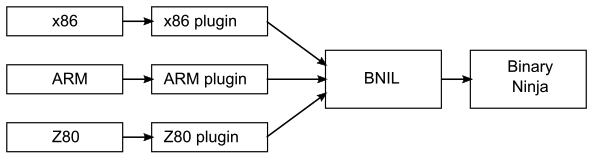
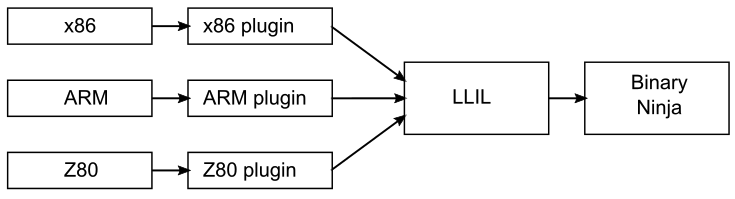
guide_to_arch_plugs2: 1st pass, BNIL diagram

diff --git a/guide_to_arch_plugs2/README.md b/guide_to_arch_plugs2/README.md
@@ -1,8 +1,8 @@
 ### Introduction, Recap
 
-In the [first installment](https://binary.ninja/2020/01/08/guide-to-architecture-plugins-part1.html), we got a Z80 architecture up and running with disassembly and control graphs. In this second installment, we'll cover Binary Ninja's intermediate languages and the concept of lifting.
+In the [first installment](https://binary.ninja/2020/01/08/guide-to-architecture-plugins-part1.html), we got a Z80 architecture up and running with disassembly and control graphs. In this second installment, we'll add lifting and discuss Binary Ninja's intermediate languages.
 
-Recall an architecture plugin's job: to inform Binary Ninja (binja) about an unknown architecture so binja can open new binaries, perform analysis, etc. This is done by populating Architecture class fields like`.address_size`, `.max_instr_length`, and `.regs` and implementing class methods like `get_instruction_text()`, `get_instruction_info()`, and `get_instruction_low_level_il()` from [architecture.py](https://github.com/Vector35/binaryninja-api/blob/dev/python/architecture.py).
+Recall an architecture plugin's job: to inform Binary Ninja (Binja) about an unknown architecture so Binja can open new binaries, perform analysis, etc. This is done by populating Architecture class fields like `.address_size`, `.max_instr_length`, and `.regs` and implementing class methods like `get_instruction_text()`, `get_instruction_info()`, and `get_instruction_low_level_il()` from [architecture.py](https://github.com/Vector35/binaryninja-api/blob/dev/python/architecture.py):
 
 | architecture component                     | purpose                                        |
 | ------------------------------------------ | ---------------------------------------------- |
@@ -11,14 +11,14 @@ Recall an architecture plugin's job: to inform Binary Ninja (binja) about an unk
 | `get_instruction_text()` method            | provide an instruction's string representation |
 | `get_instruction_low_level_il()` method    | provide instruction semantics                  |
 
-Like the first blog post, you're invited to [install](https://docs.binary.ninja/guide/plugins.html) and follow along developing in git:
+Like the first blog post, you're invited to [install](https://docs.binary.ninja/guide/plugins.html) the [plugin](https://github.com/Vector35/Z80) and follow along developing in git:
 
 ```
 $ git clone https://github.com/Vector35/Z80
 $ cd Z80 && git checkout tutorial2_start
 ```
 
-Our inchoate `get_instruction_low_level_il()` in Z80Arch.py is awaiting our code:
+Our inchoate `get_instruction_low_level_il()` in Z80Arch.py is awaiting a real definition:
 
 ```python
     def get_instruction_low_level_il(self, data, addr, il):
@@ -31,17 +31,19 @@ The [example binary](./assets/dacman.col) will be the homebrew Pac-Man clone cal
 
 ### What is Lifting?
 
-It's translating from a lower level language to a higher level intermediate language. Since it starts "lower" and ascends "higher", it called called "lifting". I wonder if other terms like "raising" were considered. Anyway, the lower level language will be the machine instructions of the architecture we're targetting (Z80) and the higher level intermediate language is called binja's low level intermediate language (LLIL).
+It's translating from a lower level language to an intermediate language considered higher. Since it starts "lower" and ascends "higher", the process earned the name "lifting". I wonder if other terms like "raising" were considered. Anyway, the lower level language is the machine instructions of the architecture we're targetting (Z80) and the intermediate language is called Binja's low level intermediate language (LLIL). Why would it be called _low_ level intermediate language if it's intended to be "higher" than the machine instructions? Because in Binja's hierarchy of IL's, collectively called BNIL, LLIL is the lowest:
 
-Why do this? The main reason is so binja can have a common, generalized analysis target rather than a collection of analyzers per architecture. Imagine how inflexible it would be to maintain a special analyzer for every architecture, and having to construct a new one for each plugin!
+![](./assets/bnil.png)
 
-So BNIL acts a common tongue, and it's our job as the plugin author to write a translater from the target architecture to this common language binja expects:
+Why do this? The main reason is so Binja can have a common, generalized analysis target rather than a collection of analyzers per architecture. Imagine the maintenance required to maintain a special analyzer for every architecture, and having to construct a new one for each plugin!
+
+So BNIL acts a common tongue, and it's our job to write a translater from the target architecture to this common language Binja expects:
 
 ![](./assets/common_tongue.png)
 
 ### LLIL: The Callback
 
-Alright, so Binja's going to be asking us for LLIL by invoking our definition of  `get_instruction_low_level_il()`. Let's first look at what we're supplied to do the job:
+Alright, so Binja's going to be asking us for LLIL by invoking our plugin's  `get_instruction_low_level_il()`. Let's first look at what we're supplied to do the job:
 
 ```
 data: <class 'bytes'>
@@ -49,17 +51,13 @@ addr: <class 'int'>
   il: <class 'binaryninja.lowlevelil.LowLevelILFunction'>
 ```
 
-The `data` and corresponding `length` hold bytes from the instruction. The `il` is an initially empty container which will accumulate the current function's LLIL that we produce on a per-instruction basis with invocations of this callback.
+The `data` and corresponding `length` hold bytes from the instruction to be translated. The `il` is an initially empty container that collects LLIL for this function that we produce on a per-instruction basis with invocations of this callback.
 
-The `il` parameter actually serves two roles. In addition to being the container for produced LLIL, but it's also a reference to a class with many LLIL producing helper functions. See [lowlevelil.py](https://github.com/Vector35/binaryninja-api/blob/dev/python/lowlevelil.py).
-
-As the container, we will be calling `il.append(...)` to append LLIL instructions to it.
-
-As the helper, we will be calling `il.store()` to produce `LLIL_STORE`, `il.set_reg(...)` to produce `LLIL_SET_REG`, etc.
+The `il` parameter actually serves two roles. In addition to being the container for produced LLIL, it's also a reference to a class with many LLIL producing helper functions. See [lowlevelil.py](https://github.com/Vector35/binaryninja-api/blob/dev/python/lowlevelil.py). As the container, we will be calling `il.append(...)` to append LLIL instructions to it. As the helper, we will be calling `il.store()` to produce `LLIL_STORE`, `il.set_reg(...)` to produce `LLIL_SET_REG`, etc.
 
 #### Exercise #1: unimplemented
 
-Well, we can't lift Z80 bytes without first disassembling, so let's start our `get_instruction_low_level_il()` with a call to the disassembler. Note that since the first tutorial, Z80 has migrated away from [skoolkit](https://pypi.org/project/skoolkit/) disassembler to [z80dis](https://pypi.org/project/z80dis/).
+Well, we can't lift Z80 bytes without first disassembling, so let's start with a call to the disassembler. Note that since the first tutorial, Z80 has migrated away from [skoolkit](https://pypi.org/project/skoolkit/) disassembler to [z80dis](https://pypi.org/project/z80dis/).
 
 ```python
     def get_instruction_low_level_il(self, data, addr, il): 
@@ -68,7 +66,7 @@ Well, we can't lift Z80 bytes without first disassembling, so let's start our `g
             return None
 ```
 
-Remember the roles of the `il` parameter? Let's try them both. When an instruction disassembly succeeds, we'll use the helper `il.Unimplemented()` to construct a simple single-instruction expression that marks that the instruction isn't yet implemented by the lifter. Then, as the container, we'll `il.append()` it to the progressively built function:
+Remember the roles of the `il` parameter? Let's try them both. When an instruction disassembly succeeds, we'll use the helper `il.Unimplemented()` to construct a simple single-instruction expression that marks that the instruction isn't yet implemented by the lifter. Then, as the container, we'll `il.append()` it to function's LLIL so far:
 
 ```python
         expr = il.unimplemented()
@@ -81,9 +79,9 @@ See [checkpoint #1](https://github.com/Vector35/Z80/commit/236de467ad19e4691416d
 
 ![](./assets/unimplemented_asm.png)
 
-Check out those red [no](https://en.wikipedia.org/wiki/No_symbol) symbols. Binja has received our `LLIL_UNIMPLEMENTED` and by default tags each line that's lifted to unimplemented, a built-in todo list! Check the LLIL view and confirm that everything is lifted to Unimplemented.
+Check out those red [no](https://en.wikipedia.org/wiki/No_symbol) symbols. Binja has received our `LLIL_UNIMPLEMENTED` and by default tags each line with that symbol, a built-in todo list! Check the LLIL view and confirm that everything is lifted to Unimplemented.
 
-### LLIL: Assembly DSL Nature
+### LLIL: Assembly Nature
 
 Obviously to be a translator from Z80 to LLIL, we're going to need to know something about LLIL.
 
@@ -103,11 +101,11 @@ class LowLevelILOperation(enum.IntEnum):
   # ...
 ```
 
-Hopefully these LLIL instructions have names you can already imagine mapping to some machine instructions you're familiar with. It was designed with ease of lifting in mind.
+Hopefully the names of these LLIL instructions already have you imagining how they might map to some machine instructions. It was designed with ease of lifting in mind.
 
-BNIL is a domain specific language (DSL), but you never write it down as text. Like we never produce the string "LLIL_LOAD" or "LLIL_STORE" and ask binja to compile or otherwise process it. Instead, it's an [internal or embedded DSL](https://en.wikipedia.org/wiki/Domain-specific_language#External_and_Embedded_Domain_Specific_Languages), being expressed in and hosted by the language Python.
+BNIL is a domain specific language (DSL), but you never write it down as text. Like we never produce the string "LLIL_LOAD" or "LLIL_STORE" and ask Binja to compile or otherwise process it. Instead, it's an [internal or embedded DSL](https://en.wikipedia.org/wiki/Domain-specific_language#External_and_Embedded_Domain_Specific_Languages), being expressed in and hosted by the language Python.
 
-Here's an abridged table showing the correspondence between raw LLIL instructions and the constructs in python:
+Here's an abridged table showing the correspondence between raw LLIL instructions and the hosting constructs in python:
 
 | instruction | LowLevelILFunction helper | LowLevelILInstruction |
 | ----------- | ------------------------- | --------------------- |
@@ -147,13 +145,13 @@ See [checkpoint #2](https://github.com/Vector35/Z80/commit/664368c14b4fcf8c08a07
 
 Unlike assembly's rigid instructions, LLIL is flexible because many of its instructions accept subexpressions in their operands. And those operands might contain subexpressions, and so on.
 
-This nearly cries for a tree-like mental picture. Every LowLevelILInstruction can be thought of as internal nodes of a tree. Each of their operands that isn't another LowLevelILInstruction is a leaf node. So we can revisit our lift of NOP to:
+This nearly cries for a tree-like mental picture. Every LowLevelILInstruction can be thought of as internal nodes of a tree. Each of their operands that isn't another LowLevelILInstruction is a leaf node. So we can revisit our lift of NOP and draw:
 
 ![](./assets/nop_tree.png)
 
-Trail of Bit's [Breaking Down Binary Ninja's Low Level IL](https://blog.trailofbits.com/2017/01/31/breaking-down-binary-ninjas-low-level-il/) is approaching four years old, but I doubt its exposition of this concept can be topped and I recommend it as prerequisite reading. You'll see some elements and examples in this post inspired from TOB's article. It also includes some code for printing existing lifted IL in a text outline format which reinforces the tree idea when examining the result of already written lifters.
+Trail of Bit's [Breaking Down Binary Ninja's Low Level IL](https://blog.trailofbits.com/2017/01/31/breaking-down-binary-ninjas-low-level-il/) is approaching four years old, but I doubt its exposition of this concept can be topped and I recommend it as prerequisite reading. You'll see some elements and examples in this post inspired from this seminal article. It also includes some code for printing existing lifted IL in a text outline format which reinforces the tree idea when while studying the product of preexisting lifters.
 
-If LLIL is to be thought of as a tree-like language, then learning to translating to LLIL could benefit from  cultivating an ability to think of assembly instructions in a tree-like manner. For me, it's helpful to think first of a composition of functions, then translate to the LLIL tree. For example, the x86 instruction `mov eax, 2` might first become the composition `mov(reg("eax"), 2))` and after surveying [lowlevelil.py](https://github.com/Vector35/binaryninja-api/blob/dev/python/lowlevelil.py) I find my `mov()` maps to `LLIL_SET_REG` whose arguments tell me the 2 can't be supplied naked, but wrapped in an `LLIL_CONST`, resulting in:
+If LLIL is to be thought of as a tree-like language, then learning to translate to LLIL could benefit from  cultivating an ability to think of assembly instructions in a tree-like manner. For me, an intermediate step of imagning a composition of functions is helpful. For example, the x86 instruction `mov eax, 2` might first become the composition `mov(reg("eax"), 2))` and after surveying [lowlevelil.py](https://github.com/Vector35/binaryninja-api/blob/dev/python/lowlevelil.py) I find my `mov()` maps to `LLIL_SET_REG` whose arguments tell me the 2 can't be supplied naked, but requires a wrapping in `LLIL_CONST`, resulting in:
 
 ```
 LLIL_SET_REG
@@ -162,7 +160,7 @@ LLIL_SET_REG
      └─── 2
 ```
 
-The x86 instruction `lea eax, [edx+ecx*4]` might decompose to `lea(add(reg("edx"),mul(reg("ecx"), 4)))` before mapping to `LLIL_SET_REG`, `LLIL_REG`,  `LLIL_ADD`, `LLIL_MUL`, before mapping to LLIL tree:
+The x86 instruction `lea eax, [edx+ecx*4]` might decompose to `lea(add(reg("edx"),mul(reg("ecx"), 4)))` before mapping to `LLIL_SET_REG`, `LLIL_REG`,  `LLIL_ADD`, `LLIL_MUL` which can be arranged into the tree:
 
 ```
 LLIL_SET_REG
@@ -179,7 +177,7 @@ LLIL_SET_REG
 
 #### Exercise #3: Lifting PUSH
 
-Let's hop into lifting PUSH, which requires _something_ to be pushed. But binja doesn't have separate instructions for pushing registers or constants or flags. It instead pushes a general expression:
+Let's try lifting PUSH, which requires _something_ to be pushed. Since Binja doesn't have separate instructions for pushing registers and pushing constants and pushing flags, we must push a general expression, in variable `subexpr` here:
 
 ```python
         elif decoded.op == OP.PUSH:
@@ -210,7 +208,7 @@ As you lift more instructions, your mental library of LLIL instructions will inc
 
 #### Eexercise #4: LD immediate to register
 
-Consider the instruction `LD DE, 0x7000` which loads the value 0x7000 into register DE. A function view might be `ld(reg("de"), 0x7000)`.  Since it writes to a register, we find a fit with `LLIL_SET_REG` and look to the prototype of LowLevelILFunction's helper function in [lowlevelil.py](https://github.com/Vector35/binaryninja-api/blob/dev/python/lowlevelil.py):
+Consider the instruction `LD DE, 0x7000` which loads the value 0x7000 into register DE. A function view might be `ld(reg("de"), 0x7000)`.  Since it writes to a register, we find a fit with `LLIL_SET_REG` and look to the prototype of the corresponding helper function `set_reg()` from [lowlevelil.py](https://github.com/Vector35/binaryninja-api/blob/dev/python/lowlevelil.py):
 
 ```python
 def set_reg(self, size:int, reg:'architecture.RegisterType', value:ExpressionIndex,
@@ -245,13 +243,13 @@ See [checkpoint #4](https://github.com/Vector35/Z80/commit/f8da9dc7243c7b909ccf2
 
 #### Exercise #5: LD register to memory
 
-Consider the instruction `LD (0x7002),A` which writes the value in register A to address 0x7002. Functionally, we could write it `LD(0x7002,reg("A"))`. Writing a value to memory matches `LLIL_STORE` and its corresponding helper function prototype is:
+Consider the instruction `LD (0x7002),A` which writes the value in register A to address 0x7002. Functionally, we could write perhaps `LD(0x7002,reg("A"))`. Writing a value to memory matches `LLIL_STORE` and its corresponding helper function prototype is:
 
 ```python
 def store(self, size:int, addr:ExpressionIndex, value:ExpressionIndex, flags=None) -> ExpressionIndex:
 ```
 
-Notice we have to supply two subexpressions here. None will be built automatically from the helper. 
+Notice we have to supply two subexpressions here. None will be built automatically from the helper like was the case with helper `set_reg()`.
 
 ```python
         elif decoded.op == OP.LD:
@@ -264,7 +262,7 @@ Notice we have to supply two subexpressions here. None will be built automatical
                     expr = il.store(size, subexpr_a, subexpr_b)
 ```
 
-The resulting tree is very straightforward:
+The resulting tree is predictable given the two subexpressions:
 
 ![](./assets/ld_ptr_reg_tree.png)
 
@@ -272,7 +270,7 @@ See [checkpoint #5](https://github.com/Vector35/Z80/commit/9e140ae0c2ee18d6edae3
 
 ### Factoring out operand lifting
 
-It's extremely common when lifting an instruction that we must generate LLIL for operands. Rather than replicate this for each instruction, we should have some common utility. Indeed this is done in almost all of Vector35's architectures:
+It's common when lifting an instruction that we must generate LLIL for operands. Rather than replicate this for each instruction, we should have some common utility. Indeed this is done in almost all of Vector35's architectures:
 
 | architecture                                                 | operand lifting utilities:                  |
 | ------------------------------------------------------------ | ------------------------------------------- |
@@ -282,7 +280,7 @@ It's extremely common when lifting an instruction that we must generate LLIL for
 | [arch-ppc](https://github.com/Vector35/arch-ppc)             | operToIL() functions                        |
 | [6502 / NES](https://github.com/Vector35/binaryninja-api/blob/dev/python/examples/nes.py) | OperandIL[] lookup table                    |
 
-The upfront cost of implementing such a function will pay dividends as it's used when lifting future instructions. It's also not a bad time to fully familiarize ourselves with the target architecture and the operand types reported by the disassembler. Let's survey the types of operands Z80 can have.
+The upfront cost of implementing such a function will pay dividends as it's used when lifting future instructions. It's also not a bad time to fully familiarize ourselves with the target architecture and the operand types reported by the disassembler. Let's survey the types of operands of Z80:
 
 **Register** operands map easily to LLIL_REG:
 
@@ -291,7 +289,7 @@ The upfront cost of implementing such a function will pay dividends as it's used
         return il.reg(REG_TO_SIZE[oper_val], reg2str(oper_val))
 ```
 
-**Dereferenced register** operands map to `LLIL_LOAD` of `LLIL_REG`. It's also sometimes convenient to opt out of the actual load, which we'll signal using the `ignore_load` parameter.
+**Dereferenced register** operands map to `LLIL_LOAD` of `LLIL_REG`.
 
 ```python
     elif oper_type == OPER_TYPE.REG_DEREF:
@@ -338,7 +336,7 @@ Try to implement the utility function `operand_to_il()`. It must be given the op
 def operand_to_il(self, oper_type, oper_val, il, size_hint=0):
 ```
 
-It's also happens to be convenient for Z80 lifting to be able to ignore the load of the dereferenced operands. For instance, when `(0x7002)` is the left hand side (destination) of an `LD` instruction, we don't want to actually load from there, just access its address. But when it's the right hand side (source) of an `LD`, we do want to lift as an `LLIL_LOAD`. So we introduce a helpful `ignore_load` flag to our utility function's prototype.
+It's also happens to be convenient when lifting Z80 to have the ability to ignore the load of the dereferenced operands. For instance, when `(0x7002)` is the left hand side (destination) of an `LD` instruction, we don't want to actually lift a load from there, just lift as an address. But when it's the right hand side (source) of an `LD`, we do want to lift as an `LLIL_LOAD`. So we introduce a helpful `ignore_load` flag to our utility function's prototype.
 
 ```python
 def operand_to_il(self, oper_type, oper_val, il, size_hint=0, ignore_load=False):
@@ -348,13 +346,13 @@ See the new function `operand_to_il()` and our current lifting implementation ad
 
 ### LLIL: Exact fits and getting inventive
 
-Every example lift so far has had an easy mapping to LLIL. A natural question to ask is "Can _any_ assembly instruction be described by LLIL?". Definitely not directly, as the number of instructions in modern ISA's vastly exceeds the number of instructions in LLIL.
+Every example lift so far has had nearly a one-to-one correspondence between assembly instructions and LLIL. A natural question to ask is "Can _any_ assembly instruction be described by LLIL?". Definitely not directly, as the number of instructions in modern ISA's vastly exceeds the number of instructions in LLIL.
 
 This section is a lesson that LLIL won't always have an exact fit for the assembly instruction. Sometimes you need to cobble something together.
 
 #### Exercise #7: lifting push AF
 
-We currently lift `PUSH AF` as an `LLIL_PUSH` of `LLIL_REG` AF. And while AF is a register pair in that it can be the object of register reads and pushes and what not, access to it is special in Z80 in that the low 8 bits (the "F" part) map to the flags. 
+We currently lift `PUSH AF` as an `LLIL_PUSH` of `LLIL_REG` AF. And while AF is a register pair in that it can be the object of register reads and pushes and what not, access to it is special in Z80 because the low 8 bits (the "F" part) map to the flags. 
 
 Push can only target AF, BC, DE, HL, IX, IY, so let's test when AF is the object:
 
@@ -369,7 +367,7 @@ We need to form the 2-byte value that goes on the stack. The high 8 bits will be
 | ---- | ---- | ---- | ---- | ---- | ---- | ---- | ---- |
 | s    | z    |      | h    |      | pv   | n    | c    |
 
-But there's no LLIL_HANDLE_THESE_Z80_FLAGS. So what do we do? Imagine how you might do it in C: shifts and ors. We'll synthesize it with `LLIL_LSL` and `LLIL_OR`.
+But there's no `LLIL_HANDLE_THESE_Z80_FLAGS`. So what do we do? Imagine how you might do it in C: shifts and ors. We'll synthesize it with `LLIL_LSL` and `LLIL_OR`.
 
 ```python
      expr = il.push(2,
@@ -410,7 +408,7 @@ Unconditional branches that have a computed target present no new challenges. Ca
             expr = il.call(il.const_pointer(2, oper_val))
 ```
 
-Returns (`RET` in Z80) take as input how much the stack is adjusted:
+Returns (`RET` in Z80) takes as input how much the stack is adjusted:
 
 ```python
     elif decoded.op == OP.RET:
@@ -438,7 +436,7 @@ See [checkpoint #8](https://github.com/Vector35/Z80/commit/6e24f53ef5ccc078af177
 
 ### LLIL: Lifting conditional instructions
 
-The previous lesson about branches ignored the possibility of an operand that would make `RET` or `JR` or `JP` conditional. So how do we do those? The answer is LLIL provides an assembly-language like test and goto instruction called `LLIL_IF` which can point at labels we can insert in code. The general form is something like:
+The previous lesson about branches ignored the possibility of an operand that would make `RET` or `JR` or `JP` conditional. So how do we do those? The answer is LLIL provides an assembly-language like test and goto instruction called `LLIL_IF` which can point at labels we insert in code. The general form is something like:
 
 ```
 LLIL_IF <condition, label_true, label_false>
@@ -449,11 +447,11 @@ label_true:
 label_false:
 ```
 
-The steps to construct something like this are:
+The steps to construct this are:
 
 1. create an expression for the condition test
 2. allocate label(s) using `LowLevelILLabel()` call from [lowlevelil.py](https://github.com/Vector35/binaryninja-api/blob/dev/python/lowlevelil.py)
-3. create an LLIL_IF with `il.if(...)` supplying the condition test and two labels and append it to `il`
+3. create an `LLIL_IF` with `il.if(...)` supplying the condition test and two labels and append it to `il`
 4. mark the current spot with the "true" label using `il.mark_label(...)`
 5. append code that should be executed for this label
 6. mark the current spot with the "false" label using `il.mark_label(...)`
@@ -462,7 +460,7 @@ What makes this convenient is that the labels you allocate aren't committed to a
 
 #### Exercise #9: Lifting conditional RET
 
-The only operand RET can take is one of the conditional flags, so the presence of an operand means it's conditional.
+The only operand `RET` can take is one of the conditional flags, so the presence of an operand means it's conditional.
 
 ```python
     elif decoded.op == OP.RET:
@@ -480,11 +478,11 @@ The only operand RET can take is one of the conditional flags, so the presence o
 
 How was that antecedent formed though? Just as we had a helper function `operand_to_il()` for normal operands, we need a helper function `jcc_to_flag_cond()` for condition codes. HINT: use `il.flag()` and `il.not_expr()` to invert them.
 
-See [checkpoint #9](https://github.com/Vector35/Z80/commit/2a9d6ba3bc87a9524c95d8caea85aa0a5e2de8af) for the solution. In `sub_882f()` we have a conditional RET on the zero flag:
+See [checkpoint #9](https://github.com/Vector35/Z80/commit/2a9d6ba3bc87a9524c95d8caea85aa0a5e2de8af) for the solution. In `sub_882f()` we have a conditional `RET` on the zero flag:
 
 ![](./assets/cond_ret.png)
 
-And the lift has it executing the RET when `z` is true, and jumping to the `DEC (IX)` otherwise:
+And the lift has it executing the `RET` when `z` is true, and jumping to the `DEC (IX)` otherwise:
 
 ![](./assets/cond_ret_lifted.png)
 
@@ -496,7 +494,7 @@ How can you know if your lifting is accurate? I wish I had more formal advice to
 
 **Test driven development:** start with what you believe _should_ be the lifted output of several assembly instructions, then develop until the test is met. This is the approach taken for over 2000 cases in the [arch-arm64 lifting test](https://github.com/Vector35/arch-arm64/blob/staging/arm64test.py).
 
-**Transpiler**: run a test program vs. a compiled version of a lifted test program. If the outputs match, your lift is likely very accurate. The [llil_transpiler project](https://github.com/vector35/llil_transpiler) has a target for Z80 using the [small device C compiler (SDCC)](http://sdcc.sourceforge.net/) and the [implementation of emulated of LLIL instructions](https://github.com/Vector35/llil_transpiler/blob/master/runtime.cpp) stands independently as a nice reference of what the LLIL instructions are intended to do.
+**Transpiler**: run a test program vs. a compiled version of a lifted test program. If the outputs match, your lift is likely very accurate. The [llil_transpiler project](https://github.com/vector35/llil_transpiler) has a target for Z80 using the [small device C compiler (SDCC)](http://sdcc.sourceforge.net/) and the [implementation of emulated of LLIL instructions](https://github.com/Vector35/llil_transpiler/blob/master/runtime.cpp) stands independently as a nice reference of what LLIL instructions are intended to do.
 
 None of these truly "verify" an accurate lift, they just increase the confidence.
 
@@ -504,7 +502,7 @@ None of these truly "verify" an accurate lift, they just increase the confidence
 
 **What is the difference between LLIL and Lifted LLIL?** Lifted LLIL is the raw product of an architecture plugin's call to `get_instruction_low_level_il()`. Everything we produced in this post is is Lifted LLIL. It's the crude oil straight from the ground. After some refinement you get LLIL. A series of `LLIL_NOP` is collapsed into a single NOP, for example.
 
-**What is the difference between LLIL and BNIL?** BNIL is an umbrella term for all the levels of IL binja uses, and Lifted LLIL is at the bottom level.
+**What is the difference between LLIL and BNIL?** BNIL is an umbrella term for all the levels of IL Binja uses, and Lifted LLIL is at the bottom level.
 
 **What is the difference between an expression and an actual LLIL instruction?** An expression is an internal numeric identifier for a portion of an LLIL instruction's full tree and is returned by most of the helper functions. Recall the tree for the x86 instruction `lea eax, [edx+ecx*4]`:
 
@@ -536,7 +534,7 @@ Since the internal storage is inconsequential when constructing LLIL, "expressio
 
 ### Conclusion
 
-I hope this post has been helpful in getting you started lifting! If you're looking for more exercises, I recommend you extend the conditional RET to conditional JP and JR too. You can always restart the tutorial by checking out branch [tutorial2_start](https://github.com/Vector35/Z80/commits/tutorial2_start) from the [Z80 git repo](https://github.com/Vector35/Z80) or simply re-clicking the checkpoints. Spoilers can be had by checking out branch [master](https://github.com/Vector35/Z80/tree/master).
+I hope this post has been helpful in getting you started lifting! If you're looking for more exercises, I recommend you extend the conditional `RET` to conditional `JP` and `JR`. You can always restart the tutorial by checking out branch [tutorial2_start](https://github.com/Vector35/Z80/commits/tutorial2_start) from the [Z80 git repo](https://github.com/Vector35/Z80) or simply re-clicking the checkpoints. Spoilers can be had by checking out branch [master](https://github.com/Vector35/Z80/tree/master).
 
 We welcome feedback. Is there something you wish were covered in more detail? Less? Do you have a question that belongs in the Q&A?
 
